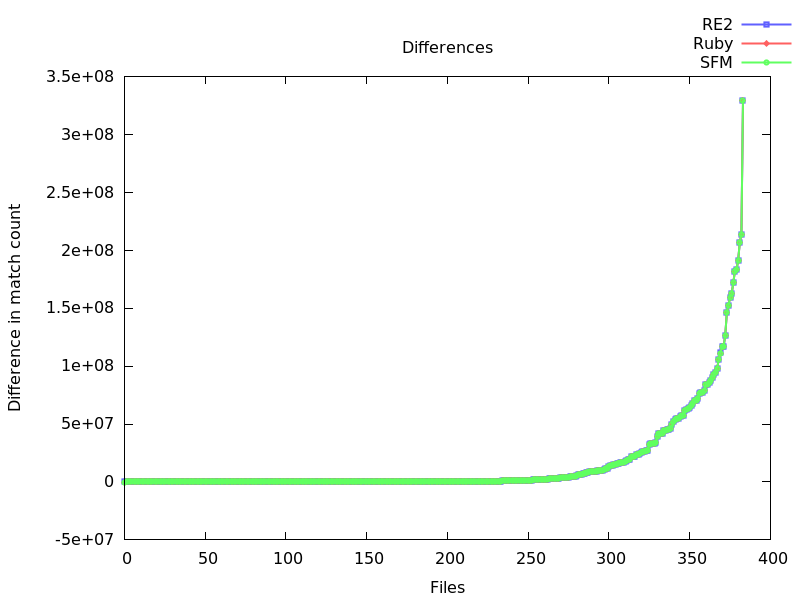
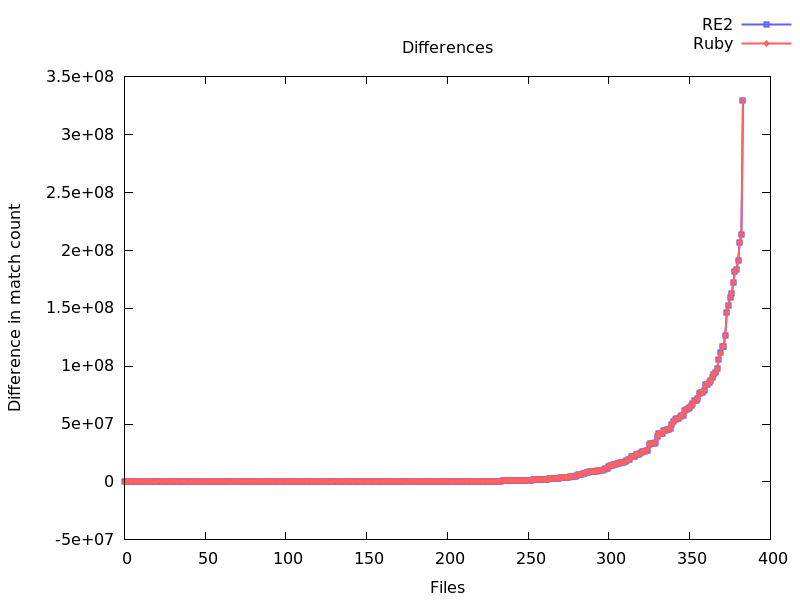
code

diff --git a/code/ruby/src/visualizer.rb b/code/ruby/src/visualizer.rb
@@ -234,8 +234,7 @@ class Visualizer
             set xlabel '#{@mode[mode][:xlabel]}'
 
             plot '#{@mode[mode][:re2]}' with linespoints ls 1 title 'RE2', \
-                 '#{@mode[mode][:ruby]}' with linespoints ls 2 title 'Ruby', \
-                 '#{@mode[mode][:scan]}' with linespoints ls 3 title 'SFM'
+                 '#{@mode[mode][:ruby]}' with linespoints ls 2 title 'Ruby'
         "
 
         gnuplot(commands)
